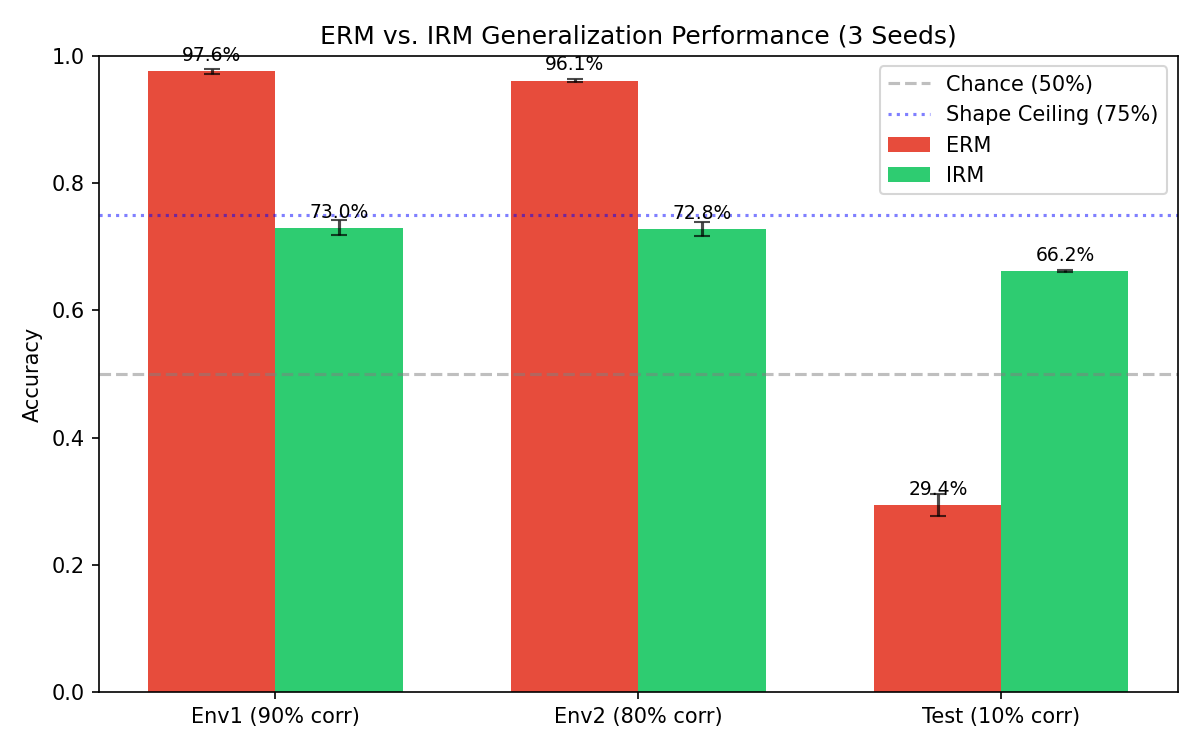
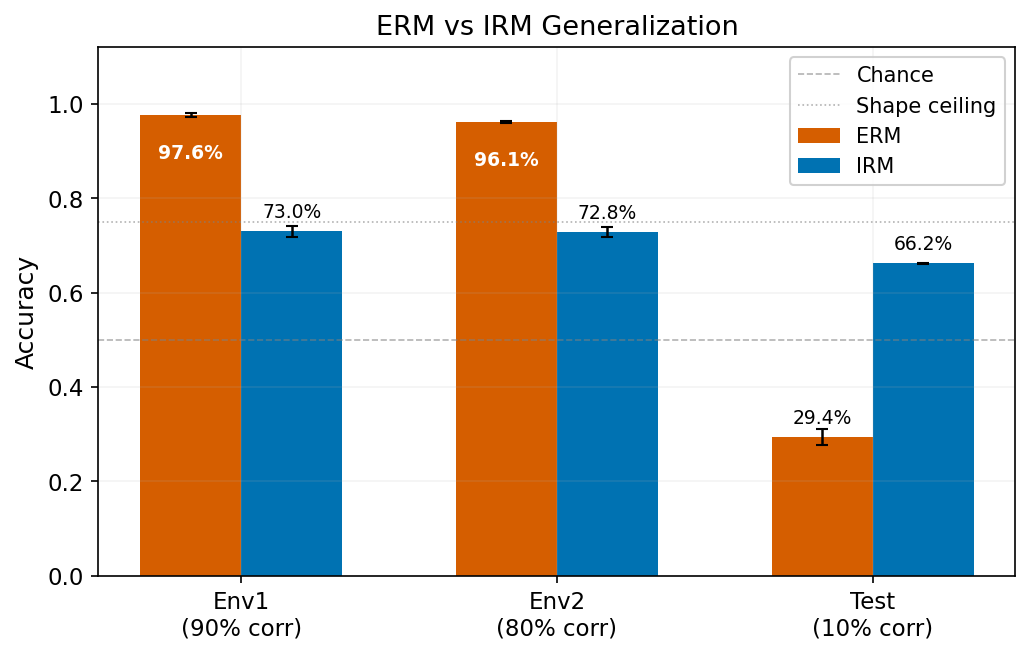
add readme & updated figures

diff --git a/probe.py b/probe.py
@@ -123,7 +123,7 @@ def plot_probes(means, stds):
 
 
 def plot_dynamics(erm_hist, irm_hist, anneal_step=190):
-    fig, ax = plt.subplots(figsize=(7, 4.5))
+    fig, ax = plt.subplots(figsize=(7.5, 4.5))
 
     erm_train = (erm_hist[:, 1] + erm_hist[:, 2]) / 2
     irm_train = (irm_hist[:, 1] + irm_hist[:, 2]) / 2
@@ -134,19 +134,19 @@ def plot_dynamics(erm_hist, irm_hist, anneal_step=190):
     ax.plot(irm_hist[:, 0], irm_hist[:, 3], color=IRM_COLOR, lw=2.2, label='IRM test')
 
     ax.axvline(anneal_step, color='black', ls=':', lw=1, alpha=0.6)
-    ax.text(anneal_step + 5, 0.08, 'penalty on', fontsize=9, alpha=0.7)
+    ax.text(anneal_step + 8, 0.08, 'penalty on', fontsize=9, alpha=0.7)
 
     ax.axhline(0.50, color='gray', ls='--', lw=0.7, alpha=0.4)
     ax.axhline(0.75, color='gray', ls=':', lw=0.7, alpha=0.4)
-    ax.text(505, 0.50, 'chance', fontsize=8, alpha=0.5, va='bottom')
-    ax.text(505, 0.75, '75%', fontsize=8, alpha=0.5, va='bottom')
+    ax.text(515, 0.505, 'chance', fontsize=8, alpha=0.5, va='bottom')
+    ax.text(515, 0.755, '75%', fontsize=8, alpha=0.5, va='bottom')
 
     ax.set_xlabel('Training step')
     ax.set_ylabel('Accuracy')
     ax.set_title('Training dynamics (ERM vs IRM)')
-    ax.set_xlim(0, 510)
+    ax.set_xlim(0, 550)
     ax.set_ylim(0, 1.05)
-    ax.legend(loc='center right', framealpha=0.9)
+    ax.legend(loc='upper left', bbox_to_anchor=(1.01, 1), framealpha=0.9, borderaxespad=0)
 
     plt.tight_layout()
     plt.savefig('figures/training_dynamics.png', dpi=150, bbox_inches='tight')
@@ -161,7 +161,6 @@ if __name__ == '__main__':
     all_erm_accs, all_irm_accs = [], []
     erm_color_p, erm_digit_p, irm_color_p, irm_digit_p = [], [], [], []
 
-    print(f'Evaluating {len(SEEDS)} seeds: {SEEDS}...')
 
     for seed in SEEDS:
         set_seeds(seed)
@@ -211,3 +210,4 @@ if __name__ == '__main__':
         plot_dynamics(np.load(erm_hist_path), np.load(irm_hist_path))
     else:
         print('Skipping dynamics plot (re-run train.py to generate history files)')
+

diff --git a/README.md b/README.md
@@ -1,101 +1,161 @@
-# IRM vs ERM on Colored MNIST
+<div align="center">
 
-![ERM vs IRM](figures/erm_vs_irm_accuracy.png)
+# Invariant Risk Minimization on Colored MNIST
 
-ERM memorizes the spurious color shortcut and collapses to **29% test accuracy**. IRM recovers to **66%** by penalizing features that shift across environments.
+> *An empirical reproduction of [Invariant Risk Minimization (IRM)](https://arxiv.org/abs/1907.02893) and representation analysis of out-of-distribution generalization.*
 
-## Background
+</div>
 
-[Colored MNIST](https://arxiv.org/abs/1907.02893) is a synthetic benchmark designed to isolate one question: can a model tell apart causal features from spurious correlations? Each MNIST digit is colored red or green. In the training environments, color strongly predicts the label — but at test time, that correlation flips. A model that relies on color will fail. A model that learns shape will generalize.
+---
 
-This repo reproduces the core experiment from Arjovsky et al. (2019) and adds representation probing to show what each model actually learned internally. Everything runs in under 2 minutes on a free Colab T4.
+<div align="center">
 
-## Setup
+  <img src="./figures/erm_vs_irm_accuracy.png" alt="ERM vs IRM" width="500" />
+
+  **Figure 1:** ERM memorizes the spurious color shortcut and collapses to $29.4\%$ test accuracy. IRM recovers to $66.2\%$ by penalizing features that shift across environments.
+</div>
+
+## 1. Introduction
+
+This repository reproduces the core [Colored MNIST](https://arxiv.org/abs/1907.02893) experiments from [Arjovsky et al. (2019)](https://arxiv.org/abs/1907.02893) and extends them with linear representation probing. Colored MNIST is a synthetic benchmark that tests out-of-distribution generalization by injecting a spurious color feature that strongly correlates with the label during training but anti-correlates at test time. While Empirical Risk Minimization (ERM) exploits this shortcut and fails on the test set, Invariant Risk Minimization (IRM) learns the underlying causal shape features.
+
+## 2. Usage
+
+### 2.1 Installation
 
 ```bash
-git clone https://github.com/<user>/colored-mnist-irm.git
+git clone https://github.com/ahmadrazacdx/colored-mnist-irm.git
 cd colored-mnist-irm
 pip install -r requirements.txt
 ```
 
-## Data
-
-Binary MNIST (digits 0–4 → class 0, digits 5–9 → class 1) with 25% label noise. Each digit is colored red or green, where color correlates with the noisy label at different strengths per environment:
-
-| Environment | Samples | Color–Label Correlation |
-| --- | --- | --- |
-| Env1 (train) | 25,000 | 90% |
-| Env2 (train) | 25,000 | 80% |
-| Test | 10,000 | 10% (reversed) |
+### 2.2 Dataset Generation
 
 ```bash
 python data.py
 ```
 
-![Sample Environments](figures/sample_envs.png)
+### 2.3 Training
 
-The 25% label noise is important — it caps the Bayes-optimal accuracy at 75% even for a perfect shape-based classifier. This prevents trivial solutions and makes the spurious shortcut (color at ~85% pooled correlation) genuinely tempting for the optimizer.
+Use `train.py` to train the models. The script supports both ERM and IRM methods. It accepts the following flags:
 
-## Model
+<div align="center" markdown="1">
 
-2-hidden-layer MLP with 390 units each (ReLU activations), matching the original IRM paper. Input is a 2-channel 14×14 image (downsampled MNIST, one channel per color). Output is a single logit for binary classification. The network is split into an `encoder` (hidden layers) and a `head` (final linear layer) — this split is built in from the start so we can extract frozen features for probing later without modifying anything.
+| Flag | Requirement | Description | Default |
+| --- | --- | --- | --- |
+| `--mode` | `required` | Algorithm to use. Choices: `erm` or `irm`. | - |
+| `--steps` | `optional` | Total number of training steps. | `500` |
+| `--lr` | `optional` | Learning rate. | `1e-3` |
+| `--penalty_weight` | `optional` | IRM penalty weight. | `1e4` |
+| `--anneal_steps` | `optional` | Warmup steps before applying the IRM penalty. | `190` |
 
-## Training
+</div>
 
 ```bash
+# Train using Empirical Risk Minimization (ERM)
 python train.py --mode erm
+
+# Train using Invariant Risk Minimization (IRM)
 python train.py --mode irm
 ```
 
-Both train over 3 random seeds and report mean (std).
+### 2.4 Probing
 
-**ERM** (Empirical Risk Minimization) pools all training data and minimizes cross-entropy. It has no mechanism to detect which features are spurious — it simply follows the strongest gradient signal, which is color.
-
-**IRM** (Invariant Risk Minimization) adds a per-environment penalty: for each environment, it checks whether scaling the logits by a dummy scalar w=1.0 is already optimal. If the gradient of the loss with respect to this scalar is non-zero, it means the representation encodes something environment-specific. Penalizing the squared norm of this gradient forces the model to find features where a single classifier works everywhere. The penalty is activated after 190 warmup steps of pure ERM.
-
-### Results
-
-| | Env1 | Env2 | Test |
-| --- | --- | --- | --- |
-| ERM | 97.6% (0.4%) | 96.1% (0.3%) | **29.4% (1.8%)** |
-| IRM | 73.0% (1.2%) | 72.8% (1.1%) | **66.2% (0.1%)** |
-
-ERM achieves near-perfect training accuracy by exploiting color. This backfires at test time where color is anti-correlated with the label — the model is confidently wrong. IRM sacrifices ~25 points of training accuracy but gains genuine out-of-distribution generalization, approaching the 75% shape-only ceiling. The standard deviation on IRM's test accuracy is just 0.1%, meaning the result is highly stable across seeds.
-
-### Training Dynamics
-
-![Training Dynamics](figures/training_dynamics.png)
-
-The phase transition at step 190 is the most informative part of this experiment. During warmup (steps 1–190), IRM behaves identically to ERM — both latch onto color, and test accuracy declines. The moment the invariance penalty activates, IRM's test accuracy reverses direction and climbs sharply while its training accuracy drops. This is the trade-off at work: the model is abandoning a feature that helps on the training distribution but hurts on the test distribution.
-
-## Representation Probing
+Extracts the frozen features from the trained models encoder and fits logistic regression probes to classify the causal or spurious features.
 
 ```bash
 python probe.py
 ```
 
-I extracted the 390-dimensional features from the penultimate layer of both trained models and fit logistic regression probes to classify either the spurious feature (color) or the causal feature (digit class).
+## 3. Dataset
+
+Binary MNIST (digits $0-4$: class $0$, digits $5-9$: class $1$) with $25\%$ label noise. Each digit is colored red or green, where color correlates with the noisy label at different strengths per environment:
+
+<div align="center" markdown="1">
+
+| Environment | Samples | Color–Label Correlation |
+| --- | --- | --- |
+| $Env_{tr_1} \; (\text{train})$ | $25,000$ | $90.1\%$ |
+| $Env_{tr_2} \; (\text{train})$ | $25,000$ | $79.9\%$ |
+| $Env_{test} \; (\text{test})$ | $10,000$ | $9.9\% \; (\text{reversed})$ |
+
+</div>
+
+<div align="center">
+
+  <img src="./figures/sample_envs.png" alt="Sample Environments" width="500" />
+
+  **Figure 2:** Sample environments demonstrating the varying color-label correlation.
+</div>
+
+The $25\%$ label noise is important, it caps the Bayes-optimal accuracy at $75\%$ even for a perfect shape-based classifier. This prevents trivial solutions and makes the spurious shortcut (color at $\sim 85\%$ pooled correlation) genuinely tempting for the optimizer.
+
+## 4. Architecture
+
+$2$-hidden-layer MLP with $390$ units each (ReLU activations), matching the original IRM paper. Input is a $2$-channel $14 \times 14$ image (downsampled MNIST, one channel per color). Output is a single logit for binary classification. The network is split into an `encoder` (hidden layers) and a `head` (final linear layer), this split is built so we can extract frozen features for probing later without modifying anything.
+
+## 5. Experiments
+
+Both methods are trained over $3$ random seeds. The tables below report the mean and standard deviation.
+
+### 5.1 OOD Generalization
+
+**ERM** pools all training data and minimizes cross-entropy. It has no mechanism to detect which features are spurious, it simply follows the strongest gradient signal, which is color.
+
+**IRM** adds a per-environment penalty: for each environment, it checks whether scaling the logits by a dummy scalar $w=1.0$ is already optimal. If the gradient of the loss with respect to this scalar is non-zero, it means the representation encodes something environment-specific. Penalizing the squared norm of this gradient forces the model to find features where a single classifier works everywhere. The penalty is activated after $190$ warmup steps of pure ERM.
+
+<div align="center" markdown="1">
+
+| Method | $Env_1$ | $Env_2$ | Test |
+| --- | --- | --- | --- |
+| **ERM** | $97.6\% \pm 0.4\%$ | $96.1\% \pm 0.3\%$ | **$29.4\% \pm 1.8\%$** |
+| **IRM** | $73.0\% \pm 1.2\%$ | $72.8\% \pm 1.1\%$ | **$66.2\% \pm 0.1\%$** |
+
+</div>
+ERM achieves near-perfect training accuracy by exploiting color. This backfires at test time where color is anti-correlated with the label, and the model is confidently wrong. IRM sacrifices $\sim25$ points of training accuracy but gains genuine out-of-distribution generalization, approaching the $75\%$ shape-only ceiling. The standard deviation on IRM's test accuracy is just $0.1\%$, meaning the result is highly stable across seeds.
+
+### 5.2 Training Dynamics
+
+<div align="center" markdown="1">
+
+  <img src="./figures/training_dynamics.png" alt="Training Dynamics" width="500" />
+
+  **Figure 3:** Training dynamics of ERM and IRM showing the effect of the invariance penalty.
+</div>
+
+The phase transition at step $190$ is the most informative part of this experiment. During warmup (steps $1–190$), IRM behaves identically to ERM, both latch onto color, and test accuracy declines. The moment the invariance penalty activates, IRM's test accuracy reverses direction and climbs sharply while its training accuracy drops. This is the trade-off at work: the model is abandoning a feature that helps on the training distribution but hurts on the test distribution.
+
+### 5.3 Representation Analysis
+
+We extract the $390$-dimensional features from the penultimate layer of both trained models and fit logistic regression probes to classify either the spurious feature (color) or the causal feature (digit class).
+
+<div align="center" markdown="1">
 
 | Probe Target | ERM Features | IRM Features |
 | --- | --- | --- |
-| Color (spurious) | 100.0% (0.0%) | 100.0% (0.0%) |
-| Digit (causal) | 85.6% (0.3%) | 74.3% (0.1%) |
+| **Color** (spurious) | $100.0\% \pm 0.0\%$ | $100.0\% \pm 0.0\%$ |
+| **Digit** (causal) | $85.6\% \pm 0.3\%$ | $74.3\% \pm 0.1\%$ |
 
-![Probe Results](figures/probe_results.png)
+</div>
 
-Both representations retain perfect color information — a linear probe decodes color at 100% from both ERM and IRM features. This is expected and worth discussing: IRM-v1 is a **predictor alignment** method, not an information bottleneck. It makes the classifier head ignore color, but it doesn't force the representation to erase it. The color information is still present in the 390-dimensional space; it's just orthogonal to the prediction direction. A method like DANN (domain-adversarial training) would actively try to remove color from the representation, which is a fundamentally different approach.
+<div align="center">
 
-The digit probe confirms that IRM's representation retains causal shape information (74.3%), closely matching its actual test accuracy. ERM's digit probe is higher (85.6%) because its representation encodes everything aggressively — both color and shape — but it uses the wrong one at test time.
+  <img src="./figures/probe_results.png" alt="Probe Results" width="500" />
 
-## Notes & Limitations
+  **Figure 4:** Representation probing results for ERM and IRM features.
+</div>
 
-- **IRM stability.** IRM-v1 was remarkably stable here (test std = 0.1%). This is not always the case. [Gulrajani & Lopez-Paz (2021)](https://arxiv.org/abs/2007.01434) showed that IRM can be highly sensitive to hyperparameters on more complex benchmarks like DomainBed. The stability we observe is partly due to the simplicity of Colored MNIST.
+Both representations retain perfect color information, a linear probe decodes color at $100\%$ from both ERM and IRM features. This is expected and worth discussing: IRM-v1 is a **predictor alignment** method, not an information bottleneck. It makes the classifier head ignore color, but it doesn't force the representation to erase it. The color information is still present in the $390$-dimensional space, it's just orthogonal to the prediction direction. A method like DANN (domain-adversarial training) would actively try to remove color from the representation, which is a fundamentally different approach.
 
-- **Gap from shape ceiling.** IRM reaches ~66% vs the theoretical 75% ceiling. This gap comes from the interaction between 25% label noise and IRM's optimization dynamics. Longer training, learning rate tuning, or stronger penalty weights could close it.
+The digit probe confirms that IRM's representation retains causal shape information ($74.3\%$), closely matching its actual test accuracy. ERM's digit probe is higher ($85.6\%$) because its representation encodes everything aggressively, both color and shape, but it uses the wrong one at test time.
 
-- **The 100% color probe.** The fact that IRM's representation perfectly encodes color while ignoring it for prediction is a real finding, not a failure. It tells us that IRM-v1 operates at the level of the classifier, not the representation. Whether this is desirable depends on the use case — in safety-critical settings, you might want the representation itself to be scrubbed of spurious features (which would require a different method).
+## 6. Discussion
 
-## References
+- **IRM Stability:** IRM-v1 was remarkably stable here (test std = $0.1\%$). This is not always the case. [Gulrajani & Lopez-Paz (2021)](https://arxiv.org/abs/2007.01434) showed that IRM can be highly sensitive to hyperparameters on more complex benchmarks like DomainBed. The stability we observe is partly due to the simplicity of Colored MNIST.
+- **Gap from Shape Ceiling:** IRM reaches $\sim 66.2\%$ vs the theoretical $75\%$ ceiling. This gap comes from the interaction between $25\%$ label noise and IRM's optimization dynamics. Longer training, learning rate tuning, or stronger penalty weights could close it.
+- **The $100\%$ Color Probe:** IRM's representation perfectly encodes color while ignoring it for prediction. This tells us that IRM-v1 operates at the level of the classifier, not the representation. Whether this is desirable depends on the use case, as in safety-critical settings, we might want the representation itself to be scrubbed of spurious features (which would require a different method).
+
+## 7. References
 
 - Arjovsky, M., Bottou, L., Gulrajani, I., & Lopez-Paz, D. (2019). *Invariant Risk Minimization.* [arXiv:1907.02893](https://arxiv.org/abs/1907.02893)
 - Gulrajani, I., & Lopez-Paz, D. (2021). *In Search of Lost Domain Generalization.* ICLR 2021. [arXiv:2007.01434](https://arxiv.org/abs/2007.01434)
